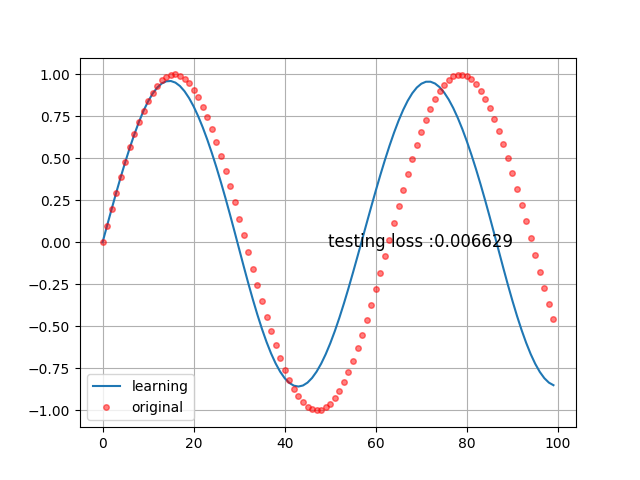
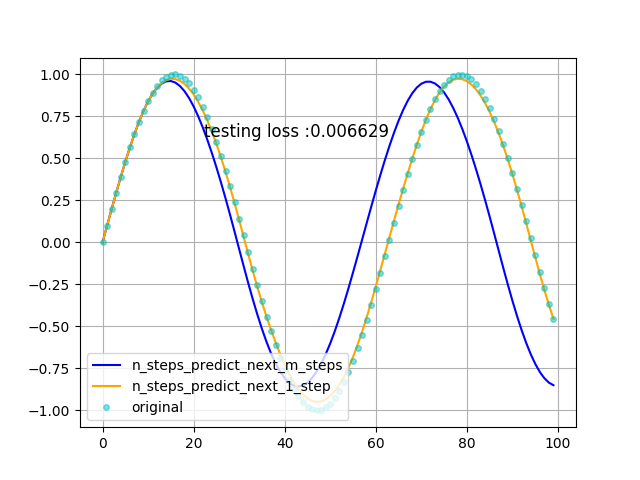
修改 RNN 拟合正弦曲线案例

diff --git a/RNN_fits_time_series_signals/RNN_fits_sine_curve_in_keras-lab-1.py b/RNN_fits_time_series_signals/RNN_fits_sine_curve_in_keras-lab-1.py
@@ -14,7 +14,6 @@ import tensorflow as tf
 sys.path.append('../utils')
 from data_manipulation import train_test_split, shuffle_data
 
-
 __version__ = '0.2.20180417'
 
 
@@ -22,22 +21,24 @@ def gen_data(seq_length, n_samples, amp=1):
     X = []
     y = []
     for i in range(n_samples):
-        X.append((amp * np.sin(np.linspace(i, seq_length+i, seq_length) / seq_length)).reshape(-1, 1))
-        y.append([amp * np.sin((seq_length + i + 1) / seq_length)])
+        np.random.seed(i)
+        rand_phase = np.random.randn()
+        X.append((amp * np.sin(np.linspace(0, 1, seq_length) + rand_phase)).reshape(-1, 1))
+        y.append([amp * np.sin(seq_length / (seq_length - 1) + rand_phase)])
     return np.array(X), np.array(y)
 
 config = tf.ConfigProto()
 config.gpu_options.per_process_gpu_memory_fraction = 0.3
 # config.gpu_options.allow_growth = True  # 自适应增加
 set_session(tf.Session(config=config))
-
+X, y = gen_data(seq_length=seq_length, n_samples=n_samples)  # X [n_samples, seq_length, data_dim]
+                                                             # y [n_samples, 1, data_dim]
 seq_length = 10
 timesteps = seq_length
 data_dim = 1
 n_samples = 5000
 seed=0
-X, y = gen_data(seq_length=seq_length, n_samples=n_samples)  # X [n_samples, seq_length, data_dim]
-                                                             # y [n_samples, 1, data_dim]
+X, y = gen_data(seq_length=seq_length, n_samples=n_samples)
 
 X_train, X_test, y_train, y_test = train_test_split(X, y, test_size=0.3, shuffle=True, seed=seed)
 
@@ -50,7 +51,7 @@ model.add(Activation('linear'))
 model.summary()
 
 model.compile(loss='mean_squared_error', optimizer='adam')
-model.fit(X_train, y_train, epochs=200, batch_size=1024, verbose=0)
+model.fit(X_train, y_train, epochs=100, batch_size=512, verbose=0)
 
 y_pred = model.predict(X_test, batch_size=100)
 
